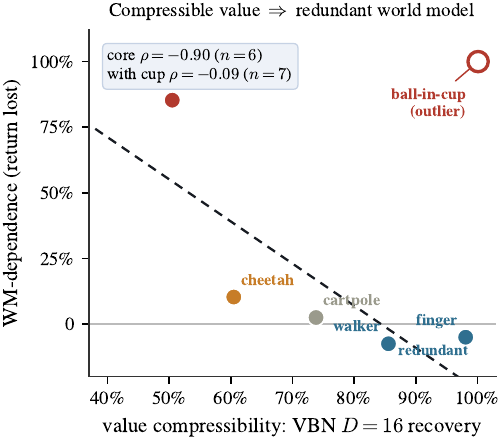
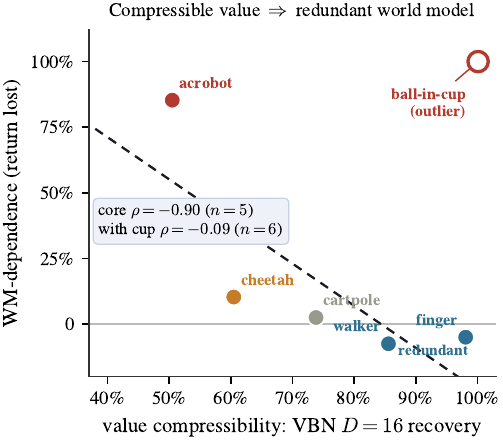
Part 20 deepened: env/reward explainer, cup outlier-as-finding + bimodal evidence figs, acrobot essential-mirror (Result 6), Hopper-benchmark caveat (Voelcker et al.), JEPA/DINO generalization

Changed region(s): [[0.2087, 0.0878, 0.5964, 0.205], [0.1789, 0.4392, 0.5666, 0.5563]]

diff --git a/docs/_posts/2026-07-21-tdmpc-glass-part20-weekly-review.md b/docs/_posts/2026-07-21-tdmpc-glass-part20-weekly-review.md
@@ -36,6 +36,33 @@ worse, even slightly better — the world model is redundant. "Does a learned wo
 architecture-level answer; it is a **property of the task**. The whole paper is about a probe that tells
 you which, *before* the world model is trained.
 
+## The nine tasks, and why they land where they do
+
+Because the whole argument rests on *which* tasks need a world model and *why*, here is the cast in full —
+each is a standard DeepMind Control Suite task, and what matters is the pairing of its **reward structure**
+with its **dynamics**. (All returns are on the 0–1000 DMC scale.)
+
+| task | reward | dynamics | why the WM does / doesn't matter |
+|---|---|---|---|
+| **ball-in-cup** | **sparse**: 1 while the ball is inside the cup, else 0 | a ball on a string under an actuated cup; must be *swung* in | **essential** — the reward is a needle in a haystack; without imagined rollouts to practice the catch, the agent almost never generates a positive example to learn from |
+| **reacher-hard** | near-sparse: 1 inside a *small* target disc, else ~0 | 2-link arm | **essential** — the small target makes reward sparse; the model helps the agent find it |
+| **acrobot-swingup** | shaped by the tip's height toward the top | **underactuated** double pendulum (torque only at the middle joint), chaotic | **essential** — reaching *and stabilising* the top needs multi-step lookahead through unstable dynamics; a reactive policy has nothing to react to until it's already up |
+| **pendulum-swingup** | high only near upright; ~0 elsewhere | **underactuated** single pendulum; torque too weak to lift directly | **essential-but-exploratory** — must *pump energy* over several swings; the hard part is discovering the pump, not representing the value |
+| **cheetah-run** | **dense**: ramps with forward speed toward ~10 m/s | planar running, smooth | helps a little — dense feedback every step; a reactive policy already climbs, the model just sharpens it |
+| **cartpole-swingup** | dense: product of upright + centred | single cart-pole, benign | marginal — dense and low-dimensional; value learning alone nearly suffices |
+| **finger-spin** | dense: high while the spinner exceeds a target angular velocity | 2-DoF finger flicking a free spinner | **redundant** — continuous contact feedback; nothing to plan |
+| **walker-run** | dense: upright-torso × ramp-with-speed (~8 m/s) | planar biped, smooth | **redundant** — dense reward + stable gait cycle; a reactive value/policy is enough |
+| **quadruped-walk** | dense: upright × ramp-with-speed | 3-D quadruped | **redundant** — same story in 3-D |
+
+Read top-to-bottom this *is* the gradient of Result 1. The pattern is not about dimensionality or embodiment —
+quadruped is the highest-DoF task here and needs the model *least*. It is about **how far reward has to
+travel**. When reward is dense and the dynamics are stable, the value function can be learned directly from
+experience and a learned forward model adds nothing; when reward is sparse, delayed, or gated behind
+unstable/underactuated dynamics, the model earns its keep — either by supplying a value representation that a
+reactive learner can't (the *representational* channel, which VBN measures) or by generating the rewarding
+experience in the first place (the *exploratory* channel, which VBN cannot). Those two channels are the whole
+story of the next three results.
+
 ## Result 1 — the nine-task gradient and the cross-model law (H-COMPRESS, confirmed within scope)
 
 We ablate the world model per task (strip its forward-dynamics learning) and measure the change in
@@ -73,6 +100,32 @@ scope, not as hidden failures. This turns a limitation into a second contributio
 **value-limited vs. exploration-limited** split, grounded in a decomposition of world-model benefit into
 a representational channel (what VBN sees) and an exploratory channel (what it cannot).
 
+### Ball-in-cup is not an outlier — it is the exploration axis, caught in the act
+
+A reviewer's first objection to the correlation figure is the lone red point at top-right: **ball-in-cup**,
+where value is *maximally* compressible (a 16-dim bottleneck recovers ~100% of return) yet the world model is
+essential. If it were a mystery we would be nervous. It is not — we can watch the mechanism directly. Here are
+the raw Dreamer learning curves, vanilla vs. world-model-stripped, on the two sparse-reward tasks:
+
+![Bimodal collapse on sparse-reward tasks]({{ '/images/part20-bimodal.png' | relative_url }})
+
+Look at the left panel. Vanilla Dreamer (blue) catches the ball essentially every episode (~980). The stripped
+agent (red ×) is **bimodal**: it *does* occasionally catch — you can see the ~980 hits — but it can never
+*consolidate*, and most episodes score exactly 0. Without imagined rollouts, the single sparse catch signal is
+too rare to stabilise the policy; the agent keeps forgetting. This is precisely an **exploration/consolidation
+failure, not a value-representation failure** — and VBN, honestly, reports exactly that: the value *is* easy
+(maximally compressible), so the probe correctly says "no representational deficit here." The deficit is in
+generating the data, which a value probe on already-collected data cannot see.
+
+Three independent lines of evidence pin this down, which is why we now treat it as a **finding rather than an
+outlier**: (i) the bimodal curve above (the WM's job here is exploration, visibly); (ii) a tuned **SAC** — a
+model-free learner with no world model — *solves* ball-in-cup (984 vs 979 for TD-MPC2, below), so the task is
+not intrinsically model-requiring, it is *imagination*-requiring for on-policy Dreamer; and (iii) the
+correlation itself: including cup drops Spearman ρ from **−0.90 to −0.09**. A single point that collapses the
+fit is not noise to be hidden — it is a point living on a *different axis*. Ball-in-cup is the cleanest
+demonstration in the paper that world-model benefit has two separable channels, and that our probe measures one
+of them by design.
+
 ## Result 3 — the mistake we caught by replicating (pendulum)
 
 Pendulum-swingup was, for two days, the paper's most dramatic collapse point: a single seed showed
@@ -83,6 +136,27 @@ deficit. Pendulum is **bimodal**, exploration-limited — the seed-1 "collapse" 
 not a value signal. We removed it from the clean correlation (ρ moved −0.94→−0.90, but now on a *clean*
 value-limited set) and report the full seed range. The honest version is more defensible than the
 dramatic one, and the episode is a small advertisement for running the replication seed.
+
+**Why bimodal, mechanistically?** Pendulum swing-up is *underactuated*: the motor is deliberately too weak to
+lift the pole straight up against gravity. The only route to the top is to **pump energy** — swing back and
+forth, building amplitude over several oscillations, until one last swing carries the pole over and the
+controller catches it at the unstable upright equilibrium. That makes learning a discovery problem with two
+attractors, and essentially two outcomes per run:
+
+- **Discover the pump** (via exploration noise, early) → the near-upright reward reinforces the sequence and it
+  locks in → return ~800–1000.
+- **Miss it** → the agent settles into a low-energy local optimum (small oscillations at the bottom, or idle
+  spinning) that pays ~0 and provides *no gradient* pointing toward the pump → stuck at 0, permanently.
+
+With the world model, imagined rollouts let the agent rehearse the pump internally, so vanilla Dreamer finds it
+across seeds (high, if noisy — blue, right panel of the figure above). Strip the model and discovery becomes a
+per-seed coin flip: hence **0 / 727 / 0**. The seed-1 "collapse" was simply the losing side of that flip; the
+727 seed proves there is *no representational deficit* — a stripped agent that happens to discover the pump
+matches vanilla. The right panel shows one of the *recovering* seeds: it does climb, but noisily, with frequent
+dips back to 0 — the fingerprint of a policy sitting right on the boundary between the two basins. So pendulum
+is the same **exploration axis** as ball-in-cup, expressed as bimodality *across seeds* rather than *across
+episodes*. Both are exactly what a value probe is blind to, and exactly why we quarantine them from the
+value-limited correlation instead of letting them quietly degrade it.
 
 ## Result 4 — an independent cross-check we didn't have to run
 
@@ -128,6 +202,79 @@ is the **value-equivalent representation + off-policy value learning** — not t
 planner. This is the seed for a second paper: a lighter, task-adaptive learner that keeps the value
 pathway and pays for the world model only where a probe like VBN says it earns its keep.
 
+### "But that's just Hopper" — the objection, taken seriously
+
+Anyone who has read Voelcker, Hussing & Eaton's *[Can we hop in general?](https://arxiv.org/abs/2410.08870)*
+(2024) should be suspicious of a headline resting on the Hopper environment. Their case study shows that
+Hopper-family benchmarks are **unusually sensitive to benchmark and design choices** — the same algorithm can
+be judged strong or weak depending on which Hopper variant, action repeat, and protocol you pick, and those
+choices are almost never justified in the literature. We take that seriously. It is exactly why our claim is
+*not* a leaderboard statement of the fragile "method X beats Y on Hopper" kind. It is a **within-task
+decomposition** — which *internal component* of one fixed agent carries the win — cross-checked against two
+independent model-free learners (SAC, bimodal ~47/188; PPO, walled at ~40 even at 94× the budget). A
+decomposition is far more robust to benchmark-design wobble than a horse-race, because every arm runs on the
+identical task, protocol, and seeds.
+
+But the decisive answer to "is it just Hopper?" is not an argument — it is to run the *identical ladder on a
+task at the opposite end of the VBN gradient*, and to predict the outcome in advance.
+
+## Result 6 — the essential-task mirror (acrobot), predicted in advance
+
+HopperHop is a task VBN calls **WM-redundant** (compressible value, removable consistency loss). Its opposite
+is **acrobot-swingup**: VBN says its value is *not* compressible, and its Dreamer WM-dependence is −85%. If the
+value-pathway story were a Hopper artifact, the ladder there would look the same. The diagnostic predicts it
+will look **opposite** — and it does:
+
+![Acrobot vs HopperHop: the same ladder, mirrored]({{ '/images/part20-acrobot-ladder.png' | relative_url }})
+
+| rung | HopperHop (VBN: redundant) | AcrobotSwingup (VBN: essential) |
+|---|---|---|
+| SAC | 47 · 188 | 72 |
+| value pathway (strip + π) | **502** ≈ full | **335** (only ~86% of full) |
+| strip + planning (mppi) | 487 | **48** — *collapse* |
+| full TD-MPC2 (π / mppi) | 509 | 388 / 395 |
+
+Two things flip. First, the value pathway alone recovers only **~86%** of full on acrobot (vs a dead heat on
+Hopper) — the world model's *representation* is doing measurable work. Second, and more striking:
+**planning through the stripped latent collapses to ~48** (n=4 seeds: 7, 42, 61, 55), a fifth of full
+TD-MPC2's ~395. On a chaotic, underactuated double pendulum, once you remove the consistency loss the learned
+latent dynamics are no longer accurate enough to plan through — so MPPI, rolling out a broken model, produces
+garbage. *The consistency loss — the "world model" term — is exactly what makes the dynamics good enough for
+the planner.* On Hopper you could throw the model away; on acrobot the planner is helpless without it.
+
+This is the result that turns the value-pathway observation from an anecdote into a **law with a sign**: VBN
+tells you, before training, which regime a task is in. Where value is compressible, keep the value pathway and
+drop the world model and planner; where it isn't, the world model is load-bearing — and specifically, *the
+planner depends on it*. (These acrobot numbers are the harvested runs, n=4 strip / n=1 full; a fresh
+config-matched n=3 ladder is running on the 3060 box as this posts, to firm the full arm — I'll update the
+figure if the medians move, but the collapse is already robust at n=4.)
+
+## Does the diagnostic generalize? JEPA and DINO
+
+A natural question — and one worth heading off — is whether any of this is specific to the two world-model
+families we tested. It is not, and the reason is architectural. Our two families already span the main axis of
+world-model design:
+
+- **DreamerV3** is a *generative* world model: it reconstructs observations, and its imagined rollouts are
+  the exploratory engine we watched fail on ball-in-cup.
+- **TD-MPC2** is a *value-equivalent* model — and its **consistency loss is, precisely, a JEPA objective**:
+  predict the *next latent embedding*, with no decoder and no pixel reconstruction. That is exactly LeCun's
+  Joint-Embedding Predictive Architecture recipe. So our "strip-consistency" ablation *is* the ablation of a
+  JEPA-style latent-prediction term — and Result 6 shows that on an essential task, that JEPA term is what
+  keeps the planner alive.
+
+So the diagnostic already covers the JEPA family through TD-MPC2. What about **DINO / DINO-WM**? DINO is a
+vision self-supervised *encoder* (no dynamics, no reward); DINO-WM (Zhou et al., 2024) builds a latent
+dynamics model on **frozen DINOv2 features** — a JEPA-style world model in pixel space. Our state-based DMC
+setup does not use pixels, so a from-scratch DINO-WM run is out of scope for *this* paper, but the diagnostic
+transfers unchanged: run VBN on the value head of a DINO-WM agent, strip its latent-dynamics loss, and the
+prediction is identical — *compressible value ⇒ the frozen-feature dynamics is redundant; incompressible ⇒
+it's load-bearing.* As a concrete third, non-TD-MPC2 JEPA data point, our own **H-JEPA** agent (a faithful
+LeCun-style hierarchy, which already carries a value head) is the natural next probe target on DMC; it is
+queued behind the acrobot ladder on the 3060. The claim we are willing to commit to now: **the diagnostic is a
+property of the value geometry, not of the world-model implementation**, and JEPA-style models are already
+inside its tested scope via TD-MPC2's consistency loss.
+
 ## The nulls, reported loudly
 
 - **The gate does not help.** The prescriptive fix the diagnostic seems to suggest — a plan-time gate
@@ -150,9 +297,10 @@ pathway and pays for the world model only where a probe like VBN says it earns i
 
 ## Next
 
-- **Paper 2 (the value pathway).** Generalize the ladder beyond HopperHop (acrobot next), and turn the
-  decomposition into a task-adaptive recipe: keep the value pathway, add the world model only where a
-  VBN-style probe predicts it is load-bearing.
+- **Paper 2 (the value pathway).** The ladder now has its second, opposite-regime point (acrobot, Result 6) —
+  next is a *config-matched n=3* confirmation (running) and a third task, then turning the decomposition into a
+  task-adaptive recipe: keep the value pathway, add the world model only where a VBN-style probe predicts it is
+  load-bearing. The JEPA generalization (H-JEPA VBN + strip on DMC) is queued behind it.
 - **Broaden the diagnostic.** The correlation is n=5 value-limited tasks; extend it, and test the
   value-limited/exploration-limited taxonomy on manipulation (Meta-World) and navigation (sparse-goal),
   which is the natural home for the exploration axis we can currently only bound with two points.
